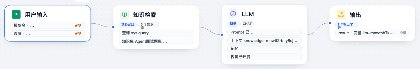
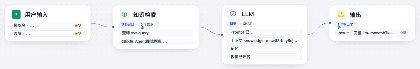
feat: update

diff --git a/apps/server/src/workflow/workflowRunStore.ts b/apps/server/src/workflow/workflowRunStore.ts
@@ -5,13 +5,16 @@ import {
   type WorkflowRunRecord,
 } from './types.js'
 
+// 工作流运行记录默认过期时间
 export const DEFAULT_WORKFLOW_RUN_TTL_MS = 30 * 60 * 1000
 
+// 创建工作流运行记录ID
 const createRunId = (): string => {
   const randomPart = Math.random().toString(36).slice(2, 8)
   return `run_${Date.now().toString(36)}_${randomPart}`
 }
 
+// 工作流运行记录存储
 export class WorkflowRunStore {
   private readonly runs = new Map<string, WorkflowRunRecord>()
 